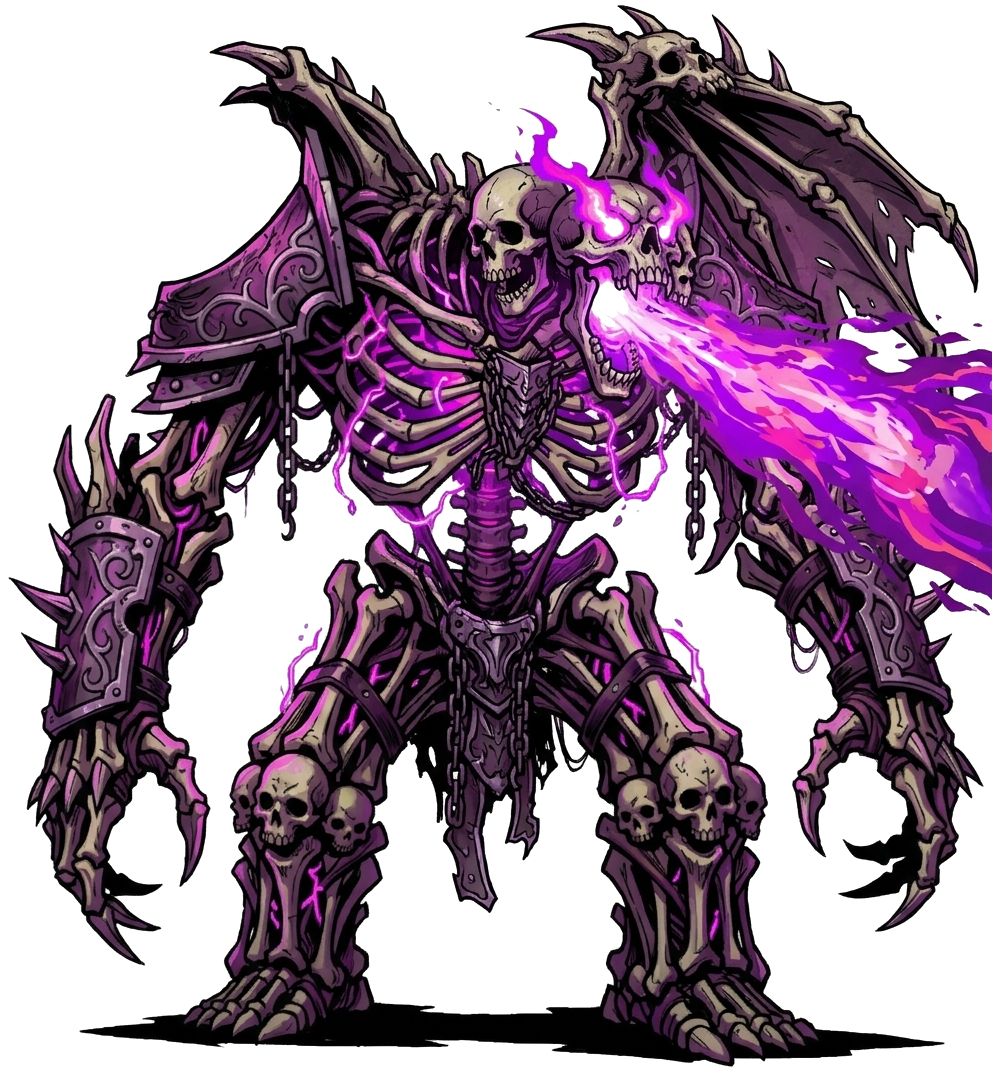
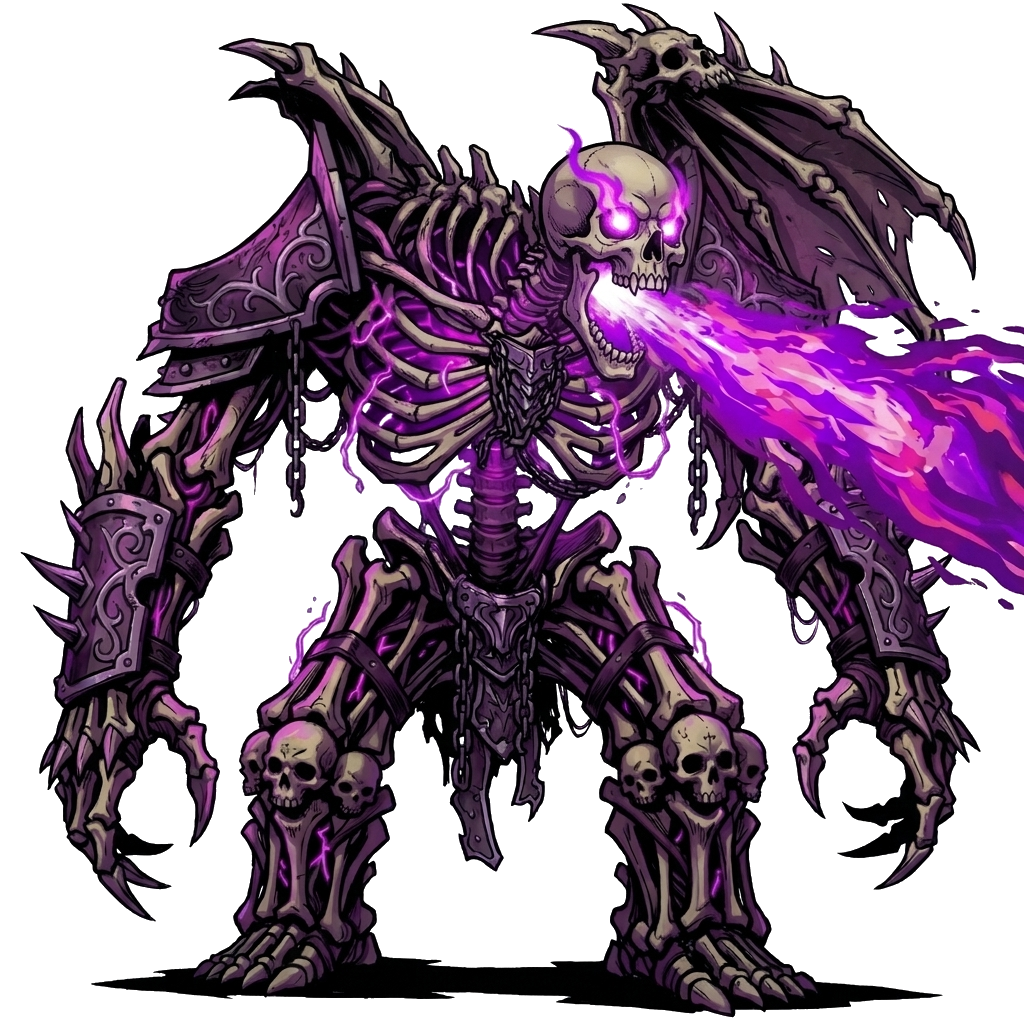
fix(art): remove extra second head on Behemoth Ossario das Catacumbas

diff --git a/src/components/CardView.tsx b/src/components/CardView.tsx
@@ -363,7 +363,7 @@ export const CardView: React.FC<CardViewProps> = ({
           <div className={`mtg-token-art aura-${displayCard.domain}`}>
             {!imgError && displayCard.imagePath ? (
               <img
-                src={`${displayCard.imagePath}?v=49`}
+                src={`${displayCard.imagePath}?v=50`}
                 alt={displayName}
                 className="mtg-token-img"
                 onError={() => setImgError(true)}
@@ -520,7 +520,7 @@ export const CardView: React.FC<CardViewProps> = ({
 
           {!imgError && displayCard.imagePath ? (
             <img
-              src={`${displayCard.imagePath}?v=49`}
+              src={`${displayCard.imagePath}?v=50`}
               alt={displayName}
               className="card-cutout-img"
               onError={() => setImgError(true)}

diff --git a/src/components/MythologyAtlasView.tsx b/src/components/MythologyAtlasView.tsx
@@ -342,7 +342,7 @@ export const MythologyAtlasView: React.FC<MythologyAtlasViewProps> = ({ onInspec
                         title={`Clique para inspecionar ${card.name}`}
                       >
                         <img
-                          src={`${card.imagePath}?v=22`}
+                          src={`${card.imagePath}?v=23`}
                           alt={card.name}
                           className="poem-card-medallion-img"
                           loading="lazy"
